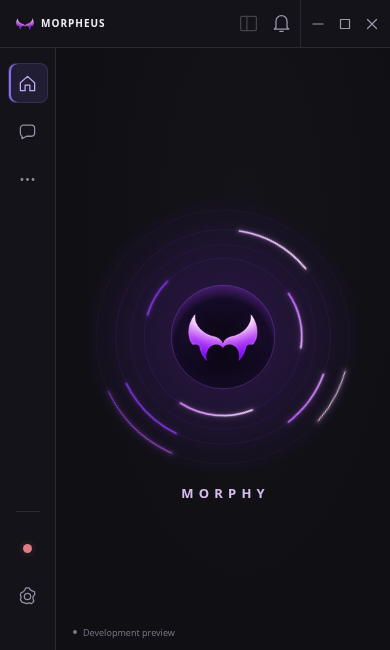
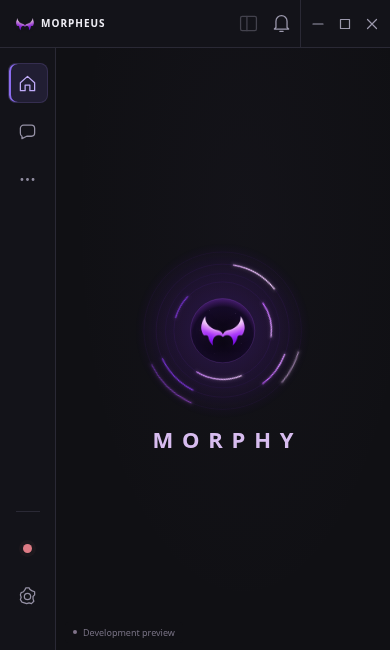
feat: refine browser Home core scale and decorative orb feedback

diff --git a/ui/preview/index.html b/ui/preview/index.html
@@ -2,13 +2,13 @@
 <html lang="en"><head><meta charset="UTF-8"><meta name="viewport" content="width=device-width,initial-scale=1"><title>MORPHEUS · Development preview</title><link rel="icon" href="/favicon.ico" sizes="any"><link rel="icon" type="image/png" sizes="32x32" href="assets/crest-32.png"><link rel="stylesheet" href="tokens.css"><link rel="stylesheet" href="style.css"></head><body>
 <header class="titlebar"><img class="logo" src="assets/crest-64.png" alt="MORPHEUS crest"><span class="brand">MORPHEUS</span><span class="workspace-label">Personal workspace</span><div class="drag-region"></div><button id="sidebar-toggle" aria-controls="conversation-sidebar" aria-label="Toggle conversation sidebar" aria-expanded="true" disabled></button><button id="notifications" aria-label="Notifications"></button><div class="window-controls" aria-label="Window controls are available in the Windows application"><button aria-label="Minimize (Windows only)" disabled><svg viewBox="0 0 12 12" aria-hidden="true"><path d="M1 6h10"/></svg></button><button aria-label="Maximize (Windows only)" disabled><svg viewBox="0 0 12 12" aria-hidden="true"><rect x="1.5" y="1.5" width="9" height="9"/></svg></button><button aria-label="Close (Windows only)" disabled><svg viewBox="0 0 12 12" aria-hidden="true"><path d="m1.5 1.5 9 9m0-9-9 9"/></svg></button></div></header>
 <div class="workspace"><nav class="rail" aria-label="Main navigation"><div class="rail-top"><button data-page="home" aria-label="Home" aria-current="page"></button><button data-page="chat" aria-label="Chat"></button><div class="menu-anchor"><button id="more" aria-label="More" aria-expanded="false" aria-controls="more-menu"></button><div id="more-menu" class="menu" hidden><button data-handoff="Usage">Usage</button><button data-handoff="Pair device">Pair device</button><button data-handoff="Connection event timeline">Connection event timeline</button></div></div></div><div class="rail-bottom"><span class="separator"></span><button id="connection" aria-label="Disconnected: no native Gateway connection in this preview"><span class="status disconnected"></span></button><button id="settings" aria-label="Settings"></button></div></nav>
-<main id="home" aria-label="Home"><figure class="morphy-core" aria-label="MORPHY core"><div class="core-stage" aria-hidden="true"><svg class="morphy-core-art" viewBox="0 0 480 480" aria-hidden="true" xmlns="http://www.w3.org/2000/svg"><g class="core-base"><defs><radialGradient id="halo"><stop stop-color="#8829ee" stop-opacity=".25"/><stop offset=".65" stop-color="#7322dd" stop-opacity=".12"/><stop offset="1" stop-color="#7322dd" stop-opacity="0"/></radialGradient><radialGradient id="orb" cx=".5" cy=".6" r=".65"><stop stop-color="#090611"/><stop offset=".72" stop-color="#160b28"/><stop offset=".95" stop-color="#50217e"/><stop offset="1" stop-color="#b573f5"/></radialGradient><linearGradient id="emblem" x2="0" y2="1"><stop stop-color="#fff0ff"/><stop offset=".45" stop-color="#da90ff"/><stop offset="1" stop-color="#8736ee"/></linearGradient></defs>
+<main id="home" aria-label="Home"><figure class="morphy-core" aria-label="MORPHY core"><div class="core-stage"><svg class="morphy-core-art" viewBox="0 0 480 480" aria-hidden="true" xmlns="http://www.w3.org/2000/svg"><g class="core-base"><defs><radialGradient id="halo"><stop stop-color="#8829ee" stop-opacity=".25"/><stop offset=".65" stop-color="#7322dd" stop-opacity=".12"/><stop offset="1" stop-color="#7322dd" stop-opacity="0"/></radialGradient><radialGradient id="orb" cx=".5" cy=".6" r=".65"><stop stop-color="#090611"/><stop offset=".72" stop-color="#160b28"/><stop offset=".95" stop-color="#50217e"/><stop offset="1" stop-color="#b573f5"/></radialGradient><linearGradient id="emblem" x2="0" y2="1"><stop stop-color="#fff0ff"/><stop offset=".45" stop-color="#da90ff"/><stop offset="1" stop-color="#8736ee"/></linearGradient></defs>
 <circle cx="240" cy="240" r="240" fill="url(#halo)"/>
 <g fill="none" stroke="#6627b5"><circle cx="240" cy="240" r="213" opacity=".22"/><circle cx="240" cy="240" r="180" opacity=".3"/><circle cx="240" cy="240" r="155" opacity=".23"/><circle cx="240" cy="240" r="132" opacity=".35"/></g>
 <circle cx="240" cy="240" r="87" fill="url(#orb)" stroke="#9850e0" stroke-opacity=".55"/>
 <!-- Stationary vector interpretation of the supplied MORPHY emblem. -->
 
-</g><g class="core-orbit core-outer"><defs><linearGradient id="core-outer-arc"><stop stop-color="#7731d5"/><stop offset=".5" stop-color="#bd58ff"/><stop offset="1" stop-color="#f5cfff"/></linearGradient></defs><circle cx="240" cy="240" r="213" fill="none" stroke="url(#core-outer-arc)" stroke-width="22" opacity="0.018" stroke-linecap="round" stroke-dasharray="95 270 150 823" stroke-dashoffset="40"/><circle cx="240" cy="240" r="213" fill="none" stroke="url(#core-outer-arc)" stroke-width="14" opacity="0.035" stroke-linecap="round" stroke-dasharray="95 270 150 823" stroke-dashoffset="40"/><circle cx="240" cy="240" r="213" fill="none" stroke="url(#core-outer-arc)" stroke-width="8" opacity="0.09" stroke-linecap="round" stroke-dasharray="95 270 150 823" stroke-dashoffset="40"/><circle cx="240" cy="240" r="213" fill="none" stroke="url(#core-outer-arc)" stroke-width="1.5" opacity="1" stroke-linecap="round" stroke-dasharray="95 270 150 823" stroke-dashoffset="40"/></g><g class="core-orbit core-middle"><defs><linearGradient id="core-middle-arc"><stop stop-color="#7731d5"/><stop offset=".5" stop-color="#bd58ff"/><stop offset="1" stop-color="#f5cfff"/></linearGradient></defs><circle cx="240" cy="240" r="180" fill="none" stroke="url(#core-middle-arc)" stroke-width="22" opacity="0.018" stroke-linecap="round" stroke-dasharray="130 190 100 200 120 391" stroke-dashoffset="140"/><circle cx="240" cy="240" r="180" fill="none" stroke="url(#core-middle-arc)" stroke-width="14" opacity="0.035" stroke-linecap="round" stroke-dasharray="130 190 100 200 120 391" stroke-dashoffset="140"/><circle cx="240" cy="240" r="180" fill="none" stroke="url(#core-middle-arc)" stroke-width="8" opacity="0.09" stroke-linecap="round" stroke-dasharray="130 190 100 200 120 391" stroke-dashoffset="140"/><circle cx="240" cy="240" r="180" fill="none" stroke="url(#core-middle-arc)" stroke-width="3" opacity="1" stroke-linecap="round" stroke-dasharray="130 190 100 200 120 391" stroke-dashoffset="140"/></g><g class="core-orbit core-inner"><defs><linearGradient id="core-inner-arc"><stop stop-color="#7731d5"/><stop offset=".5" stop-color="#bd58ff"/><stop offset="1" stop-color="#f5cfff"/></linearGradient></defs><circle cx="240" cy="240" r="132" fill="none" stroke="url(#core-inner-arc)" stroke-width="22" opacity="0.018" stroke-linecap="round" stroke-dasharray="95 140 125 170 65 234" stroke-dashoffset="200"/><circle cx="240" cy="240" r="132" fill="none" stroke="url(#core-inner-arc)" stroke-width="14" opacity="0.035" stroke-linecap="round" stroke-dasharray="95 140 125 170 65 234" stroke-dashoffset="200"/><circle cx="240" cy="240" r="132" fill="none" stroke="url(#core-inner-arc)" stroke-width="8" opacity="0.09" stroke-linecap="round" stroke-dasharray="95 140 125 170 65 234" stroke-dashoffset="200"/><circle cx="240" cy="240" r="132" fill="none" stroke="url(#core-inner-arc)" stroke-width="3" opacity="1" stroke-linecap="round" stroke-dasharray="95 140 125 170 65 234" stroke-dashoffset="200"/></g></svg><img class="core-emblem" src="assets/crest-256.png" alt=""></div><figcaption>MORPHY</figcaption></figure></main>
+</g><g class="core-orbit core-outer"><defs><linearGradient id="core-outer-arc"><stop stop-color="#7731d5"/><stop offset=".5" stop-color="#bd58ff"/><stop offset="1" stop-color="#f5cfff"/></linearGradient></defs><circle cx="240" cy="240" r="213" fill="none" stroke="url(#core-outer-arc)" stroke-width="22" opacity="0.018" stroke-linecap="round" stroke-dasharray="95 270 150 823" stroke-dashoffset="40"/><circle cx="240" cy="240" r="213" fill="none" stroke="url(#core-outer-arc)" stroke-width="14" opacity="0.035" stroke-linecap="round" stroke-dasharray="95 270 150 823" stroke-dashoffset="40"/><circle cx="240" cy="240" r="213" fill="none" stroke="url(#core-outer-arc)" stroke-width="8" opacity="0.09" stroke-linecap="round" stroke-dasharray="95 270 150 823" stroke-dashoffset="40"/><circle cx="240" cy="240" r="213" fill="none" stroke="url(#core-outer-arc)" stroke-width="1.5" opacity="1" stroke-linecap="round" stroke-dasharray="95 270 150 823" stroke-dashoffset="40"/></g><g class="core-orbit core-middle"><defs><linearGradient id="core-middle-arc"><stop stop-color="#7731d5"/><stop offset=".5" stop-color="#bd58ff"/><stop offset="1" stop-color="#f5cfff"/></linearGradient></defs><circle cx="240" cy="240" r="180" fill="none" stroke="url(#core-middle-arc)" stroke-width="22" opacity="0.018" stroke-linecap="round" stroke-dasharray="130 190 100 200 120 391" stroke-dashoffset="140"/><circle cx="240" cy="240" r="180" fill="none" stroke="url(#core-middle-arc)" stroke-width="14" opacity="0.035" stroke-linecap="round" stroke-dasharray="130 190 100 200 120 391" stroke-dashoffset="140"/><circle cx="240" cy="240" r="180" fill="none" stroke="url(#core-middle-arc)" stroke-width="8" opacity="0.09" stroke-linecap="round" stroke-dasharray="130 190 100 200 120 391" stroke-dashoffset="140"/><circle cx="240" cy="240" r="180" fill="none" stroke="url(#core-middle-arc)" stroke-width="3" opacity="1" stroke-linecap="round" stroke-dasharray="130 190 100 200 120 391" stroke-dashoffset="140"/></g><g class="core-orbit core-inner"><defs><linearGradient id="core-inner-arc"><stop stop-color="#7731d5"/><stop offset=".5" stop-color="#bd58ff"/><stop offset="1" stop-color="#f5cfff"/></linearGradient></defs><circle cx="240" cy="240" r="132" fill="none" stroke="url(#core-inner-arc)" stroke-width="22" opacity="0.018" stroke-linecap="round" stroke-dasharray="95 140 125 170 65 234" stroke-dashoffset="200"/><circle cx="240" cy="240" r="132" fill="none" stroke="url(#core-inner-arc)" stroke-width="14" opacity="0.035" stroke-linecap="round" stroke-dasharray="95 140 125 170 65 234" stroke-dashoffset="200"/><circle cx="240" cy="240" r="132" fill="none" stroke="url(#core-inner-arc)" stroke-width="8" opacity="0.09" stroke-linecap="round" stroke-dasharray="95 140 125 170 65 234" stroke-dashoffset="200"/><circle cx="240" cy="240" r="132" fill="none" stroke="url(#core-inner-arc)" stroke-width="3" opacity="1" stroke-linecap="round" stroke-dasharray="95 140 125 170 65 234" stroke-dashoffset="200"/></g><g fill="#d6b5ff" opacity=".3"><circle cx="205" cy="185" r=".8"/><circle cx="275" cy="193" r="1"/><circle cx="178" cy="238" r=".7"/><circle cx="290" cy="275" r=".8"/><circle cx="219" cy="302" r=".7"/></g></svg><img class="core-emblem" src="assets/crest-256.png" alt=""><button class="core-touch" aria-label="Illuminate MORPHY" title="Illuminate MORPHY"></button></div><figcaption>MORPHY</figcaption></figure></main>
 <section id="chat" class="chat-layout" aria-label="Chat" hidden><button id="sidebar-scrim" class="sidebar-scrim" aria-label="Close conversation list" hidden></button><aside id="conversation-sidebar" class="conversations" aria-label="Conversations"><div class="sidebar-heading"><h1>Conversations</h1><button id="search-toggle" aria-label="Search conversations"></button><button id="new-chat" aria-label="New Chat"></button></div><input id="search" type="search" placeholder="Search conversations" aria-label="Search conversations" hidden><div id="session-list"></div><div class="session-empty"><span class="eyebrow">YOUR CONVERSATIONS</span><p id="session-note" class="quiet">Native sessions appear in the Windows app.</p></div></aside><div class="conversation-panel"><div id="empty-conversation" class="empty-conversation"><img src="assets/conversation-ring.svg" alt="" class="ring"><span class="eyebrow">MORPHY</span><h2>Start a conversation</h2><p>A clear space for your next idea.</p></div><div id="messages" aria-live="polite"></div><div class="composer-dock"><form class="composer"><textarea id="draft" aria-label="Message" rows="2" placeholder="Message MORPHY..."></textarea><div class="composer-tools"><button type="button" id="attach" aria-label="Add attachment"></button><span class="toolbar-spacer"></span><button type="button" id="model-picker" class="composer-picker" aria-label="Model selection unavailable in browser preview" aria-haspopup="dialog" title="Model catalog unavailable: no backend connection"><span class="picker-label">No model</span><svg class="chevron" viewBox="0 0 16 16" aria-hidden="true"><path d="m4 6 4 4 4-4"/></svg></button><button type="button" id="reasoning-picker" class="composer-picker" aria-label="Reasoning options unavailable in browser preview" aria-haspopup="dialog" title="Supported reasoning options require a connected native model"><span class="picker-label">Reasoning</span><svg class="chevron" viewBox="0 0 16 16" aria-hidden="true"><path d="m4 6 4 4 4-4"/></svg></button><button type="button" id="microphone" aria-label="Microphone"></button><button id="send" type="submit" aria-label="Send message"></button></div></form><div class="composer-caption"><span>Personal workspace</span><span>Preview · Not connected</span></div></div></div></section></div>
 <button id="preview-info" class="preview-info">Development preview</button><dialog id="handoff"><h2 id="handoff-title"></h2><p id="handoff-text"></p><button id="close-dialog">Close</button></dialog>
 <script type="module" src="app.js"></script></body></html>

diff --git a/ui/preview/style.css b/ui/preview/style.css
@@ -600,7 +600,7 @@ dialog button{
 
 /* MorphyAnimatedCore: shared vector layers, compositor-only idle motion. */
 #home:not([hidden]){display:grid;place-items:center;overflow:hidden;padding:24px}
-.morphy-core{margin:0;width:min(480px,100%,calc(100dvh - 170px));text-align:center;pointer-events:none}
+.morphy-core{margin:0;width:min(298px,62%,calc((100dvh - 170px)*.62));text-align:center;pointer-events:none}
 .core-stage{position:relative;width:100%;aspect-ratio:1}
 .morphy-core-art{display:block;width:100%;height:100%}
 .core-emblem{position:absolute;left:35%;top:35%;width:30%;height:30%;object-fit:contain}
@@ -608,8 +608,16 @@ dialog button{
 .core-middle{animation-duration:46s;animation-direction:reverse}
 .core-inner{animation-duration:32s}
 .core-base{animation:core-breathe 8s ease-in-out infinite alternate}
-.morphy-core figcaption{margin-top:4px;padding-left:.4em;letter-spacing:.4em;font-size:13px;font-weight:600;color:#d7bcef}
+.morphy-core figcaption{margin-top:4px;padding-left:.4em;letter-spacing:.4em;font-size:22px;font-weight:600;color:#d7bcef}
 #home[hidden] .core-orbit,#home[hidden] .core-base{animation-play-state:paused}
 @keyframes core-orbit{to{transform:rotate(360deg)}}
 @keyframes core-breathe{from{opacity:.86}to{opacity:1}}
 @media(prefers-reduced-motion:reduce){.core-orbit,.core-base{animation:none;will-change:auto}}
+
+.core-touch{position:absolute;left:32%;top:32%;width:36%;height:36%;border:0;border-radius:50%;pointer-events:auto;background:transparent;padding:0}
+.core-touch:hover:not(:disabled){background:transparent}
+.core-touch:focus-visible{outline:1px solid #b09af5;outline-offset:4px}
+.core-touch::after{content:"";position:absolute;inset:-8%;border-radius:50%;background:radial-gradient(circle,#a45cff55,transparent 70%);opacity:0;pointer-events:none}
+.core-touch.pressed::after{animation:orb-feedback .65s ease-out}
+@keyframes orb-feedback{0%{opacity:0}20%{opacity:1}100%{opacity:0}}
+@media(prefers-reduced-motion:reduce){.core-touch.pressed::after{animation:none;opacity:.5}}

diff --git a/ui/preview/app.js b/ui/preview/app.js
@@ -31,3 +31,14 @@ $('draft').oninput=()=>{$('draft').style.height='auto';$('draft').style.height=M
 document.addEventListener('keydown',e=>{if(e.key==='Escape'){if(narrowLayout.matches&&sidebarOpen&& !$('handoff').open){sidebarOpen=false;presentSidebar();$('sidebar-toggle').focus();}$('more-menu').hidden=true;$('more').setAttribute('aria-expanded','false');}});
 document.addEventListener('click',e=>{if(!e.target.closest('.menu-anchor')){$('more-menu').hidden=true;$('more').setAttribute('aria-expanded','false');}});
 navigate('home');
+
+// Decorative feedback only: does not activate voice or submit a request.
+const coreTouch=document.querySelector('.core-touch');
+let corePulseTimer;
+coreTouch.addEventListener('click',()=>{
+ clearTimeout(corePulseTimer);
+ coreTouch.classList.remove('pressed');
+ void coreTouch.offsetWidth;
+ coreTouch.classList.add('pressed');
+ corePulseTimer=setTimeout(()=>coreTouch.classList.remove('pressed'),650);
+});
